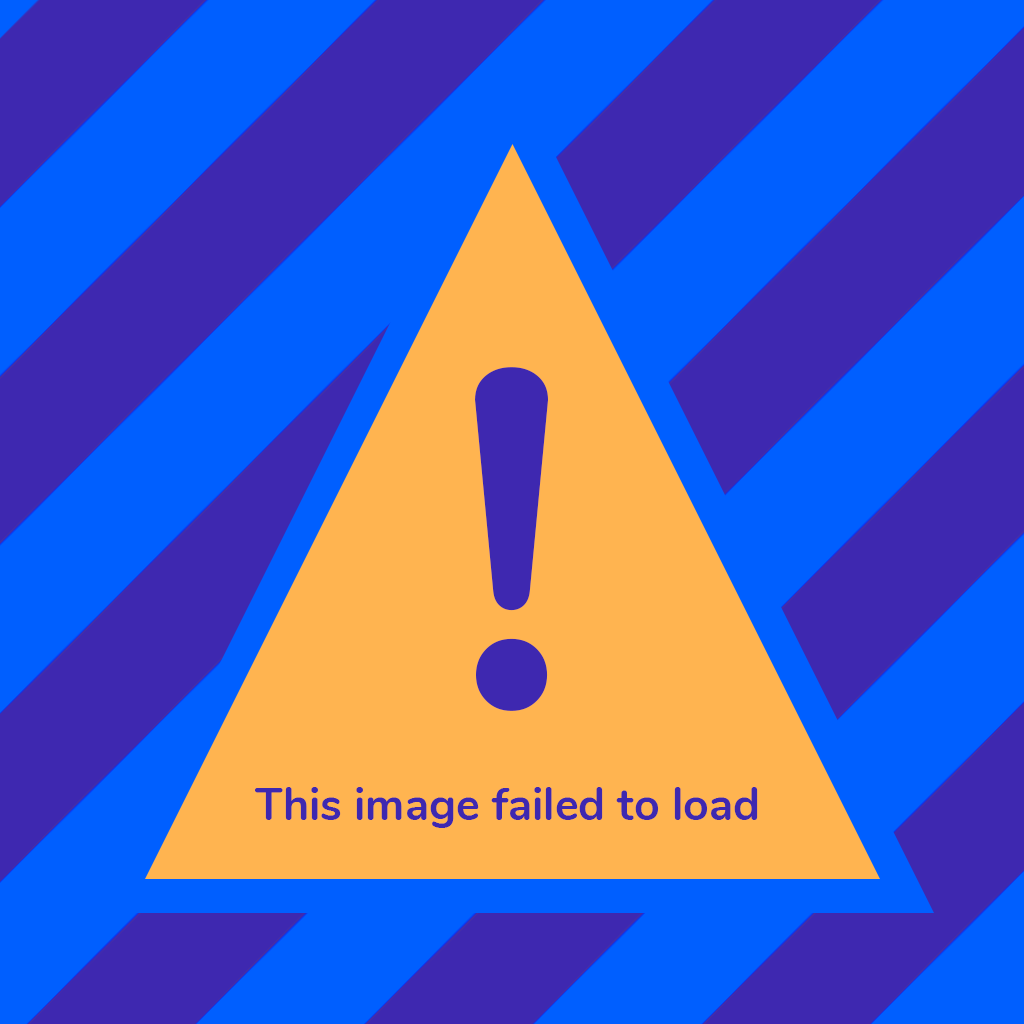
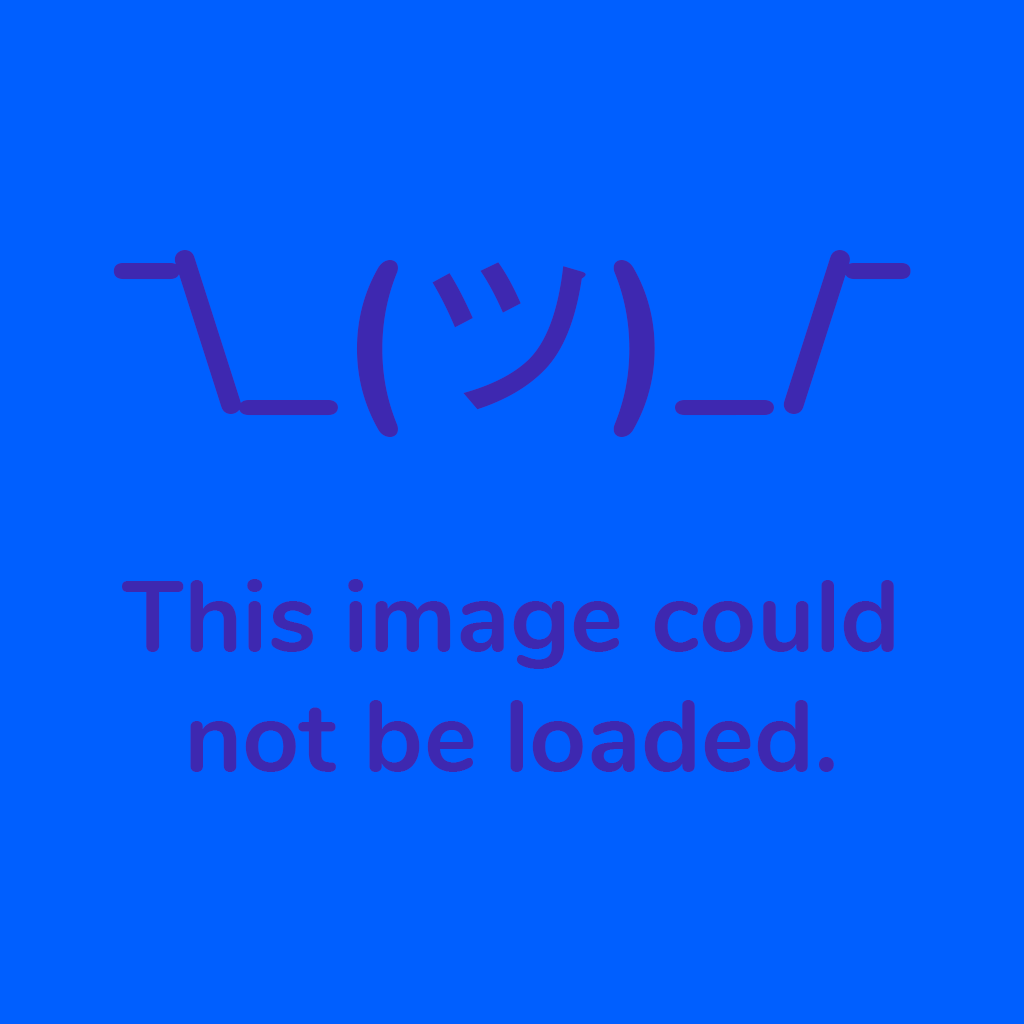
Polish progressive image

diff --git a/src/client/components/elements/flush-img/flush-img.scss b/src/client/components/elements/flush-img/flush-img.scss
@@ -3,11 +3,6 @@
 div {
   background-position: center center;
   background-repeat: no-repeat;
-  background-size: cover;
-}
-
-div.contain {
-  background-size: contain;
 }
 
 .ouc-flush-img-root {
